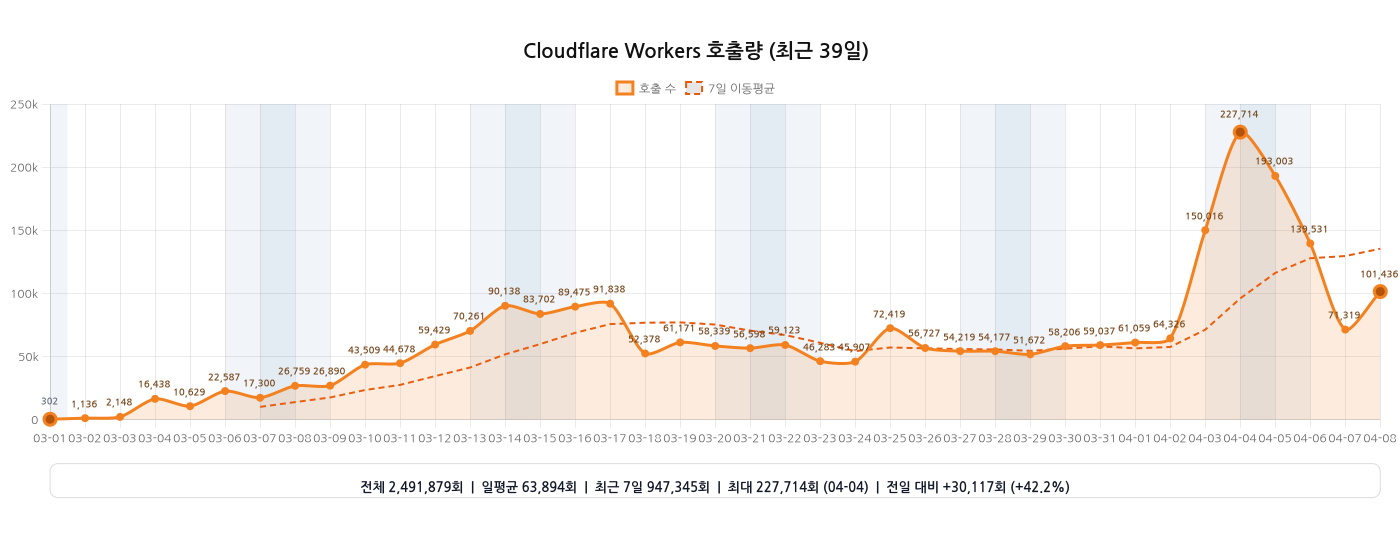
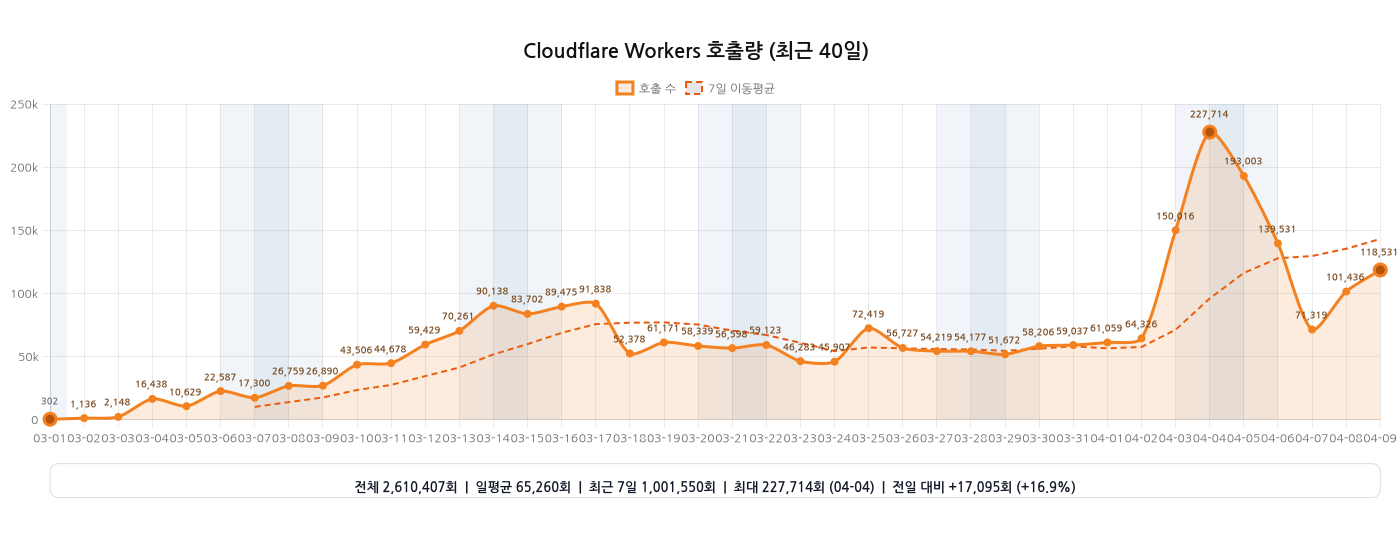
chore: 워커 호출량 그래프 자동 갱신

diff --git a/README.md b/README.md
@@ -18,11 +18,11 @@
 [![Coverage](https://github.com/hmmhmmhm/daiso-mcp/actions/workflows/coverage.yml/badge.svg?branch=main)](https://github.com/hmmhmmhm/daiso-mcp/actions/workflows/coverage.yml)
 
 <!-- WORKERS_INVOCATIONS_CHART:START -->
-<h3>Cloudflare Workers 호출량 (2026-03-01 ~ 2026-04-08, 39일)</h3>
+<h3>Cloudflare Workers 호출량 (2026-03-01 ~ 2026-04-09, 40일)</h3>
 
-<img src="./assets/analytics/workers-invocations.png?v=2026-04-08T15:52:15.878Z" alt="Cloudflare Workers 호출량 그래프 (2026-03-01 ~ 2026-04-08)" width="100%">
+<img src="./assets/analytics/workers-invocations.png?v=2026-04-09T15:55:59.974Z" alt="Cloudflare Workers 호출량 그래프 (2026-03-01 ~ 2026-04-09)" width="100%">
 
-<sub>기준 워커: <code>daiso-mcp</code> · 마지막 갱신: 2026-04-09 00:52 KST</sub>
+<sub>기준 워커: <code>daiso-mcp</code> · 마지막 갱신: 2026-04-10 00:55 KST</sub>
 
 <!-- WORKERS_INVOCATIONS_CHART:END -->
 
